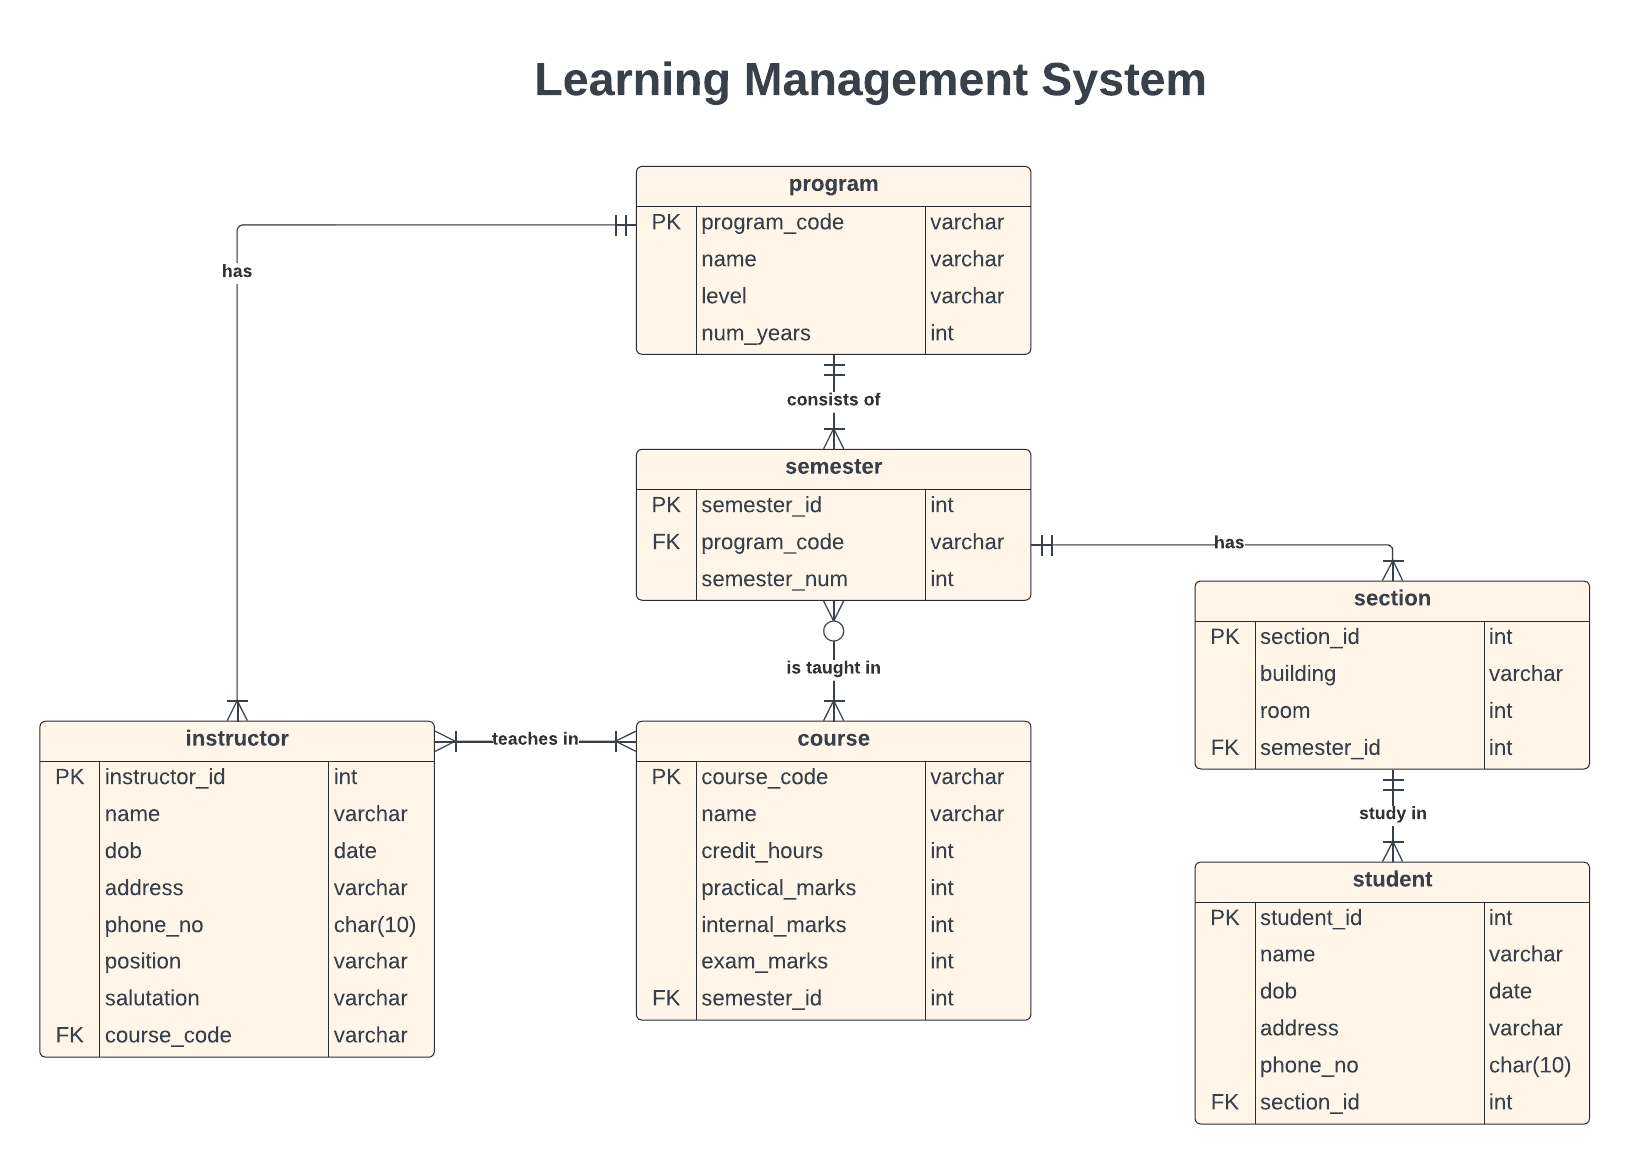
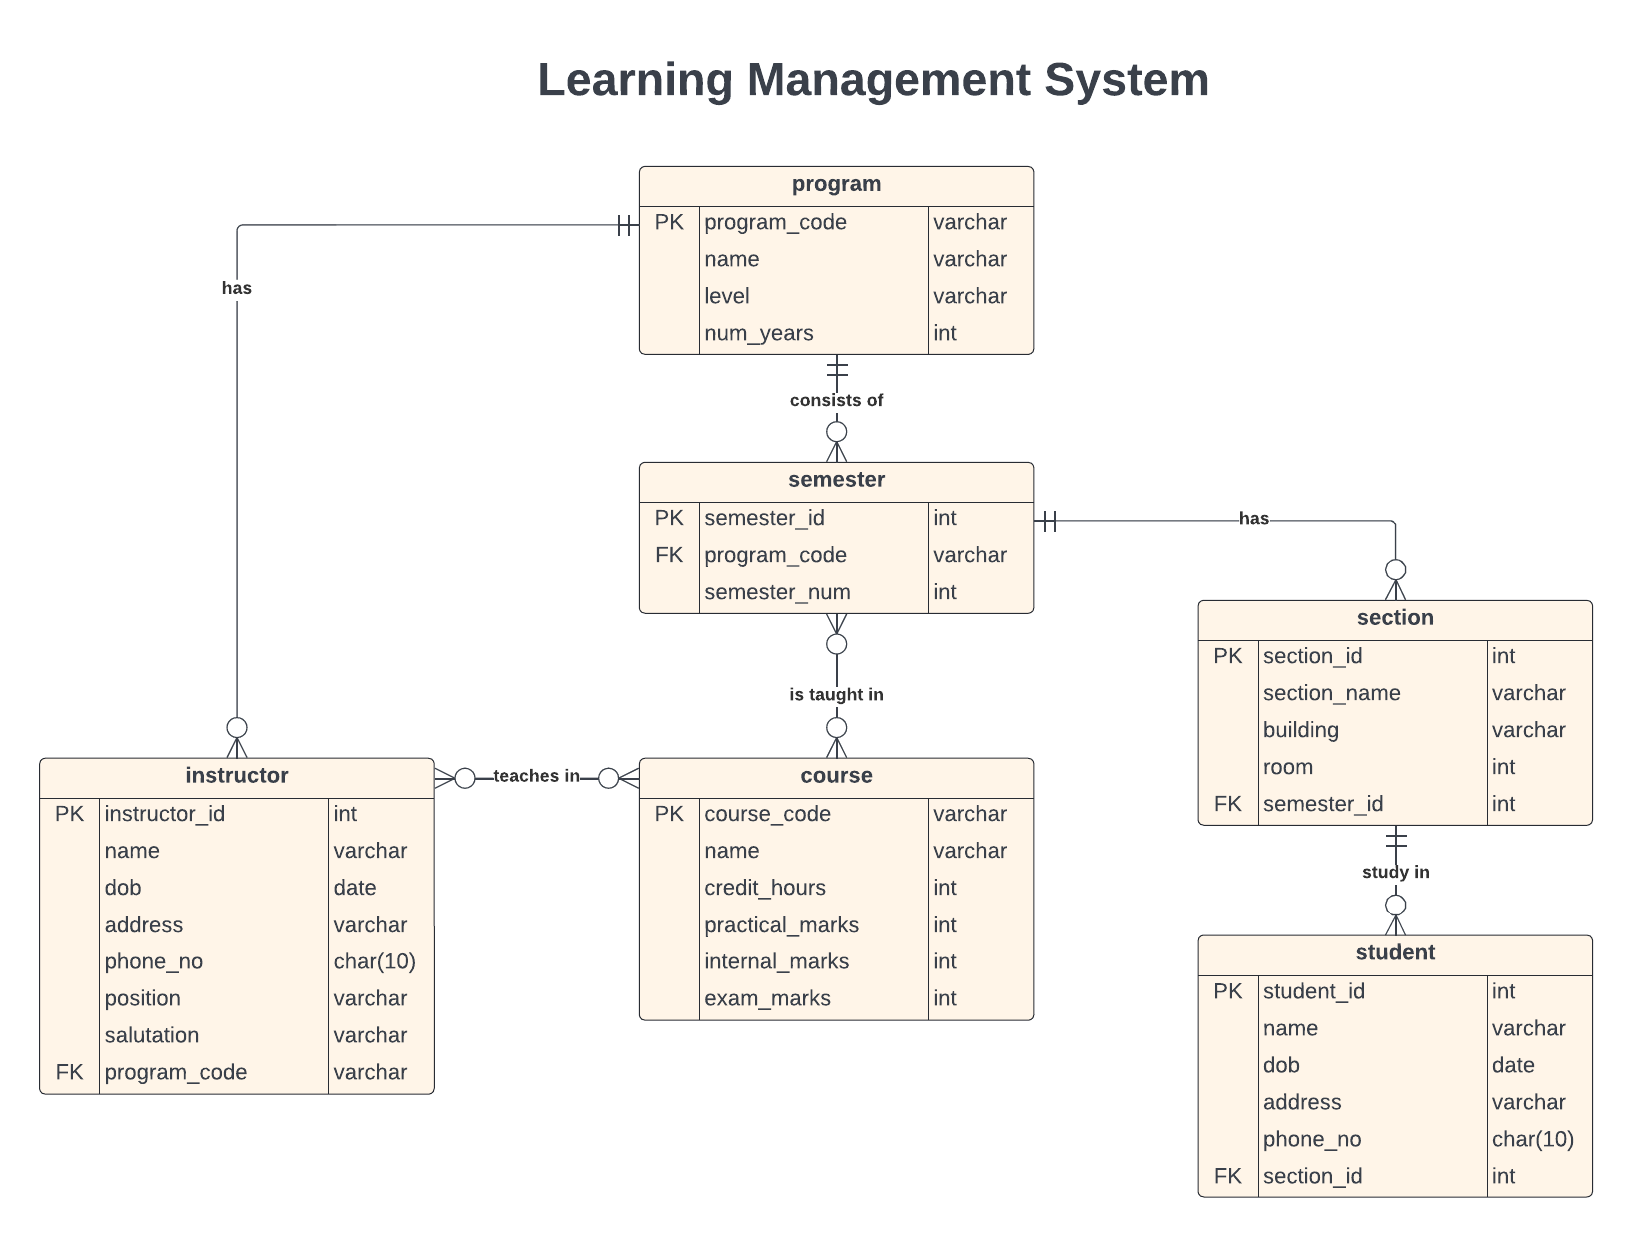
Updated erd, engine creation removed from each api and put in main function in learning management system

diff --git a/orm/learning_management_system/api.py b/orm/learning_management_system/api.py
@@ -27,13 +27,6 @@ def jprint(obj):
 @app.route('/api/programs', methods=['GET'])
 def programs():
     """Retrieve all records of programs"""
-        # create engine to connect to database
-    engine = create_engine(DB_ADDRESS)
-    # create connection to perform queries on database
-    conn = engine.connect()
-    # create MetaData object
-    metadata_obj = MetaData(bind=engine)
-    MetaData.reflect(metadata_obj)
 
     program = Table('program', metadata_obj, autoload=True, autoload_with=engine)
     stmt = select([program])
@@ -63,14 +56,6 @@ def programs():
 @app.route('/api/students', methods=['GET'])
 def students():
     """Retrieve all the records of students"""
-    
-    # create engine to connect to database
-    engine = create_engine(DB_ADDRESS)
-    # create connection to perform queries on database
-    conn = engine.connect()
-    # create MetaData object
-    metadata_obj = MetaData(bind=engine)
-    MetaData.reflect(metadata_obj)
 
     student = Table('student', metadata_obj, autoload=True, autoload_with=engine)
     stmt = select([student])
@@ -101,14 +86,6 @@ def students():
 @app.route('/api/instructors', methods=['GET'])
 def instructors():
     """Retrieve all the records of instructors"""
-   
-    # create engine to connect to database
-    engine = create_engine(DB_ADDRESS)
-    # create connection to perform queries on database
-    conn = engine.connect()
-    # create MetaData object
-    metadata_obj = MetaData(bind=engine)
-    MetaData.reflect(metadata_obj)
 
     instructor = Table('instructor', metadata_obj, autoload=True, autoload_with=engine)
     stmt = select([instructor])
@@ -141,14 +118,6 @@ def instructors():
 @app.route('/api/program/students', methods=['GET'])
 def program_students():
     """Retrieve number of students in each program"""
-    
-    # create engine to connect to database
-    engine = create_engine(DB_ADDRESS)
-    # create connection to perform queries on database
-    conn = engine.connect()
-    # create MetaData object
-    metadata_obj = MetaData(bind=engine)
-    MetaData.reflect(metadata_obj)
 
     program = Table('program', metadata_obj, autoload=True, autoload_with=engine)
     semester = Table('semester', metadata_obj, autoload=True, autoload_with=engine)
@@ -193,14 +162,6 @@ def program_students():
 @app.route('/api/semester/students', methods=['GET'])
 def semester_students():
     """Retrieve number of students in each semester"""
-    
-    # create engine to connect to database
-    engine = create_engine(DB_ADDRESS)
-    # create connection to perform queries on database
-    conn = engine.connect()
-    # create MetaData object
-    metadata_obj = MetaData(bind=engine)
-    MetaData.reflect(metadata_obj)
 
     semester = Table('semester', metadata_obj, autoload=True, autoload_with=engine)
     section = Table('section', metadata_obj, autolaod=True, autoload_with=engine)
@@ -240,14 +201,6 @@ def semester_students():
 @app.route('/api/section/students', methods=['GET'])
 def section_students():
     """Retrieve number of students in each section"""
-    
-    # create engine to connect to database
-    engine = create_engine(DB_ADDRESS)
-    # create connection to perform queries on database
-    conn = engine.connect()
-    # create MetaData object
-    metadata_obj = MetaData(bind=engine)
-    MetaData.reflect(metadata_obj)
 
     section = Table('section', metadata_obj, autolaod=True, autoload_with=engine)
     student = Table('student', metadata_obj, autoload=True, autoload_with=engine)
@@ -288,14 +241,6 @@ def section_students():
 @app.route('/api/semester/course_list', methods=['GET'])
 def semester_courses_list():
     """Retrieve courses that are taught in each semester"""
-    
-    # create engine to connect to database
-    engine = create_engine(DB_ADDRESS)
-    # create connection to perform queries on database
-    conn = engine.connect()
-    # create MetaData object
-    metadata_obj = MetaData(bind=engine)
-    MetaData.reflect(metadata_obj)
 
     semester = Table('semester', metadata_obj, autoload=True, autoload_with=engine)
     course = Table('course', metadata_obj, autolaod=True, autoload_with=engine)
@@ -363,14 +308,6 @@ def semester_courses_list():
 def semester_sections_list():
     """Retrieve list of sections of each semester"""
 
-    # create engine to connect to database
-    engine = create_engine(DB_ADDRESS)
-    # create connection to perform queries on database
-    conn = engine.connect()
-    # create MetaData object
-    metadata_obj = MetaData(bind=engine)
-    MetaData.reflect(metadata_obj)
-
     semester = Table('semester', metadata_obj, autoload=True, autoload_with=engine)
     section = Table('section', metadata_obj, autoload=True, autoload_with=engine)
 
@@ -429,14 +366,6 @@ def semester_sections_list():
 @app.route('/api/semester/instructor_list', methods=['GET'])
 def semester_instructors_list():
     """Retrieve instructor list for each semester"""
-
-    # create engine to connect to database
-    engine = create_engine(DB_ADDRESS)
-    # create connection to perform queries on database
-    conn = engine.connect()
-    # create MetaData object
-    metadata_obj = MetaData(bind=engine)
-    MetaData.reflect(metadata_obj)
 
     semester = Table('semester', metadata_obj, autoload=True, autoload_with=engine)
     course = Table('course', metadata_obj, audoload=True, autoload_with=engine)
@@ -525,14 +454,6 @@ def insert_programs():
     # get the body of insertion request that contains the new records to be inserted
     body = request.get_json()
 
-    # create engine to connect to database
-    engine = create_engine(DB_ADDRESS)
-    # create connection to perform queries on database
-    conn = engine.connect()
-    # create MetaData object
-    metadata_obj = MetaData(bind=engine)
-    MetaData.reflect(metadata_obj)
-
     program = Table('program', metadata_obj, autoload=True, autoload_with=engine)
     stmt = insert(program)
     try:
@@ -613,15 +534,6 @@ def insert_courses():
     # get the body of insertion request that contains the new records to be inserted
     # in input data there are all fields of course table, (program_code and semester_num) are optional
     body = request.get_json()
-
-    # create engine to connect to database
-    engine = create_engine(DB_ADDRESS)
-    # create connection to perform queries on database
-    conn = engine.connect()
-    # create MetaData object
-    metadata_obj = MetaData(bind=engine)
-    MetaData.reflect(metadata_obj)
-
 
     semester = Table('semester', metadata_obj, autoload=True, autoload_with=engine)
     course = Table('course', metadata_obj, autoload=True, autolaod_with=engine)
@@ -707,14 +619,6 @@ def insert_course_semesters():
     # in input data there are course_code, program_code and semester_num
     body = request.get_json()
 
-    # create engine to connect to database
-    engine = create_engine(DB_ADDRESS)
-    # create connection to perform queries on database
-    conn = engine.connect()
-    # create MetaData object
-    metadata_obj = MetaData(bind=engine)
-    MetaData.reflect(metadata_obj)
-
     course_semester = Table('course_semester', metadata_obj, autoload=True, autoload_with=engine)
     course = Table('course', metadata_obj, autoload=True, autoload_with=engine)
     semester = Table('semester', metadata_obj, autoload=True, autoload_with=engine)
@@ -772,14 +676,6 @@ def insert_sections():
     # get the body of insertion request that contains the new records to be inserted
     # in input data there are all fields of section table (except section_id), a program_code and sem_number
     body = request.get_json()
-
-    # create engine to connect to database
-    engine = create_engine(DB_ADDRESS)
-    # create connection to perform queries on database
-    conn = engine.connect()
-    # create MetaData object
-    metadata_obj = MetaData(bind=engine)
-    MetaData.reflect(metadata_obj)
 
     section = Table('section', metadata_obj, autoload=True, autoloadwith=engine)
     semester = Table('semester', metadata_obj, autoload=True, autoloadwith=engine)
@@ -847,14 +743,6 @@ def insert_students():
     # in input data there are all fields of student table (except section_id)
     # program_code, sem_number and section_name are optional
     body = request.get_json()
-
-    # create engine to connect to database
-    engine = create_engine(DB_ADDRESS)
-    # create connection to perform queries on database
-    conn = engine.connect()
-    # create MetaData object
-    metadata_obj = MetaData(bind=engine)
-    MetaData.reflect(metadata_obj)
 
     section = Table('section', metadata_obj, autoload=True, autoloadwith=engine)
     semester = Table('semester', metadata_obj, autoload=True, autoloadwith=engine)
@@ -939,14 +827,6 @@ def insert_instructors():
     # in input data there are all fields of instructor table and a program_code
     # course_code field is optional (if it is provided, record is inserted to instructor_course database)
     body = request.get_json()
-
-    # create engine to connect to database
-    engine = create_engine(DB_ADDRESS)
-    # create connection to perform queries on database
-    conn = engine.connect()
-    # create MetaData object
-    metadata_obj = MetaData(bind=engine)
-    MetaData.reflect(metadata_obj)
 
     instructor = Table('instructor', metadata_obj, autoload=True, autoload_with=engine)
     instructor_course = Table('instructor_course', metadata_obj, autoload=True, autoload_with=engine)
@@ -1034,14 +914,6 @@ def insert_instructor_courses():
     # in input data there are instructor_id and course_code
     body = request.get_json()
 
-    # create engine to connect to database
-    engine = create_engine(DB_ADDRESS)
-    # create connection to perform queries on database
-    conn = engine.connect()
-    # create MetaData object
-    metadata_obj = MetaData(bind=engine)
-    MetaData.reflect(metadata_obj)
-
     course = Table('course', metadata_obj, autoload=True, autoload_with=engine)
     instructor = Table('instructor', metadata_obj, autoload=True, autoload_with=engine)
     instructor_course = Table('instructor_course', metadata_obj, autoload=True, autoload_with=engine)
@@ -1090,4 +962,16 @@ def insert_instructor_courses():
 
 
 if __name__ == '__main__':
+    # here engine is connected to database in main program (here) because connecting to databse is a costly task
+    # if we connect to database in each api, it will be costly
+
+    # create engine to connect to database
+    engine = create_engine(DB_ADDRESS)
+    # create connection to perform queries on database
+    conn = engine.connect()
+    # create MetaData object
+    metadata_obj = MetaData(bind=engine)
+    MetaData.reflect(metadata_obj)
+
+    # run app in debug mode
     app.run(debug=True)
